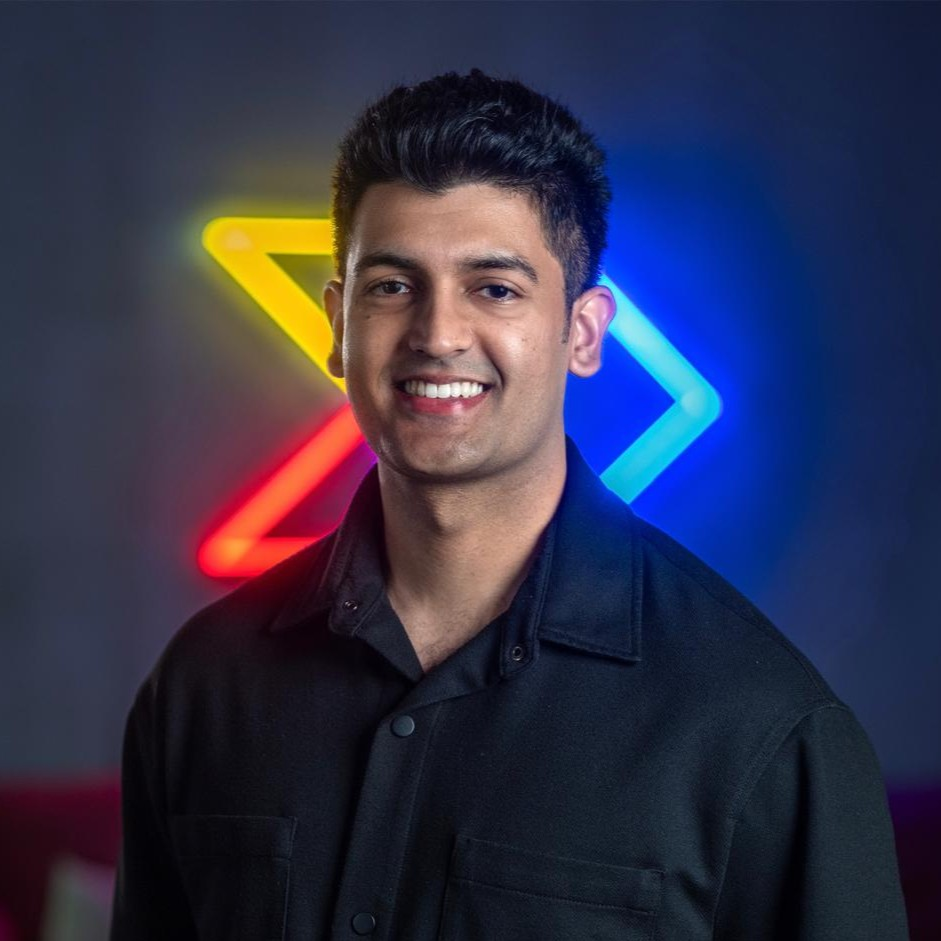
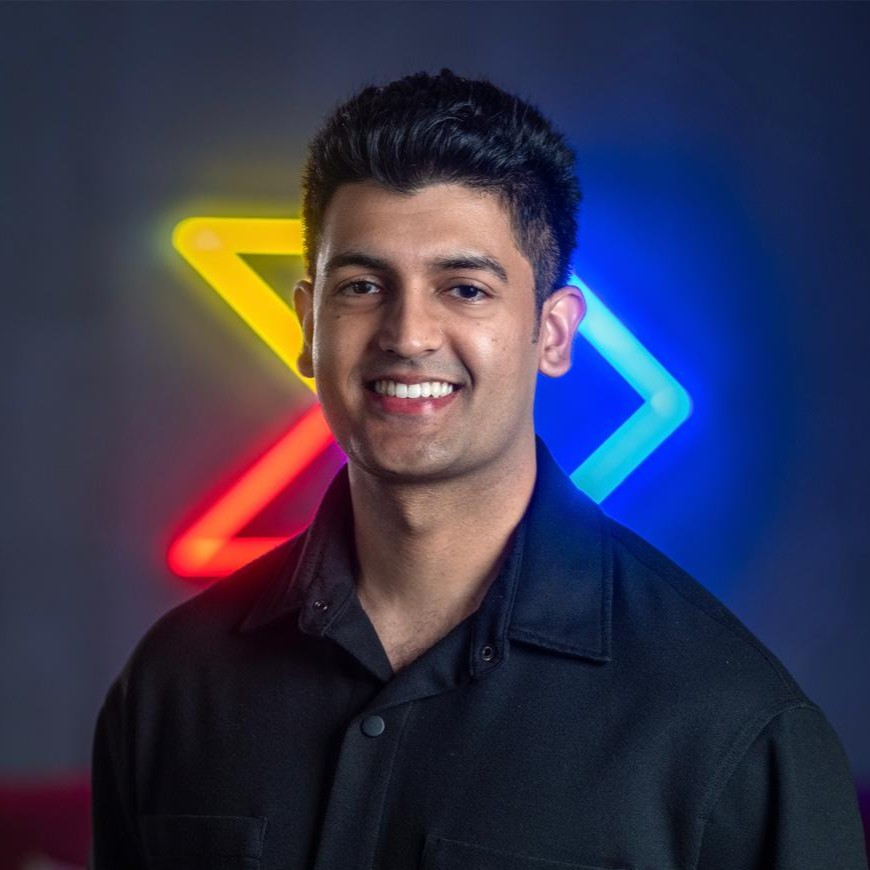
Refine contact section and Productboard bullets
Remove phone number info card from contact section, update Productboard
bullets, and refresh resume PDF and profile picture.

diff --git a/app/page.tsx b/app/page.tsx
@@ -4,7 +4,7 @@ import { useState, useEffect } from "react";
 import { content } from "../content";
 import {
   SuitcaseSimpleIcon, BrainIcon, TerminalWindowIcon, CertificateIcon, ChatCircleDotsIcon,
-  DownloadSimpleIcon, PaperPlaneTiltIcon, PhoneIcon, EnvelopeSimpleIcon, MapPinIcon,
+  DownloadSimpleIcon, PaperPlaneTiltIcon, EnvelopeSimpleIcon, MapPinIcon,
   CompassIcon, RocketIcon, TagIcon, ChartBarIcon, GearIcon, MagnifyingGlassIcon,
   CurrencyDollarIcon, UsersThreeIcon,
   DatabaseIcon, TableIcon, CloudIcon,
@@ -583,8 +583,6 @@ export default function Home() {
                 {/* Info cards — desktop only */}
                 <div className="desktop-only" style={{ display: "flex", flexDirection: "column", gap: "12px" }}>
                   {[
-                    { label: "Contact No", value: content.contact.phone, href: `tel:${content.contact.phone}`,
-                      icon: <PhoneIcon size={28} weight="fill" color="#28e98c" /> },
                     { label: "Email", value: content.contact.email, href: `mailto:${content.contact.email}`,
                       icon: <EnvelopeSimpleIcon size={28} weight="fill" color="#28e98c" /> },
                     { label: "Address", value: content.contact.address, href: "https://www.google.com/maps",

diff --git a/content.ts b/content.ts
@@ -45,9 +45,10 @@ export const content = {
       dates: "Sep 2025 – Present",
       location: "City, State",
       bullets: [
-        "Directed roadmap prioritization across 60 AI use cases using market research (MaxDiff survey) to identify customer preferences; guided GTM investment toward highest-impact adoption drivers.",
+        "Directed roadmap prioritization across 60 AI use cases using market research (MaxDiff survey) to identify customer preferences; guided engineering capacity and GTM investment toward high impact adoption drivers.",
         "Built customer segmentation model to prioritize expansion accounts for identified seat-overage opportunity, increasing efficiency of revenue capture and converting excess usage into incremental $1M contracted ARR.",
         "Redesigned churn risk framework by integrating AI-derived customer call transcript sentiment with product health metrics, improving accuracy of high-risk account ranking by 22%, enabling targeted retention strategies.",
+        "Established performance management framework for new product launch by defining success metrics and building cross-functional reporting infrastructure, aligning Product, Marketing, Sales, and Customer Success.",
       ],
     },
     {